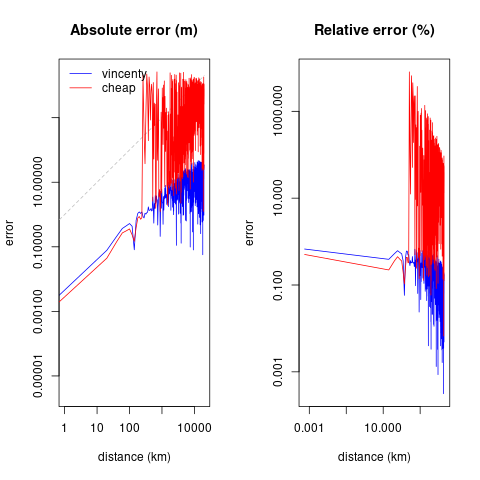
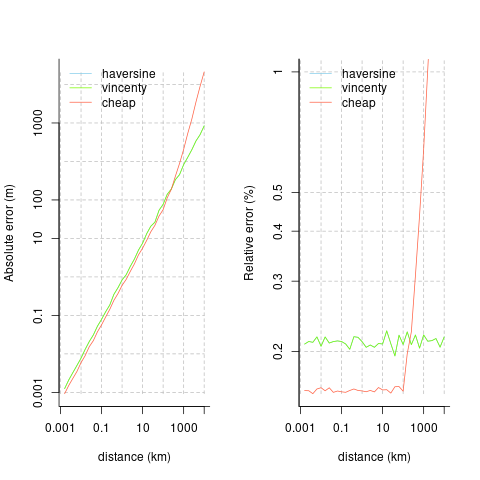
update readme

diff --git a/README.md b/README.md
@@ -12,7 +12,21 @@ public.](http://www.repostatus.org/badges/latest/wip.svg)](http://www.repostatus
 # geodist
 
 An ultra-lightweight, zero-dependency package for very fast calculation
-of geodesic distances.
+of geodesic distances. Main eponymous function, `geodist()`, accepts
+only one or two primary arguments, which must be rectagular objects with
+unambiguously labelled longitude and latitude columns (that is, some
+variant of `lon`/`lat`, or `x`/`y`).
+
+``` r
+n <- 50
+x <- cbind (-10 + 20 * runif (n), -10 + 20 * runif (n))
+y <- cbind (-10 + 20 * runif (2 * n), -10 + 20 * runif (2 * n))
+colnames (x) <- colnames (y) <- c ("x", "y")
+d0 <- geodist (x) # A 50-by-50 matrix
+d1 <- geodist (x, y) # A 50-by-100 matrix
+d2 <- geodist (x, sequential = TRUE) # Vector of length 49
+d2 <- geodist (x, sequential = TRUE, pad = TRUE) # Vector of length 50
+```
 
 ## Installation
 
@@ -22,13 +36,6 @@ You can install geodist from github with:
 # install.packages("devtools")
 devtools::install_github("hypertidy/geodist")
 ```
-
-## Usage
-
-`geodist` contains only one eponymous function which accepts only one or
-two primary arguments, each of which must be some kind of rectangular
-object with unambiguously labelled longitude and latitude columns (that
-is, some variant of `lon`/`lat`, or `x`/`y`).
 
 ``` r
 library(geodist)
@@ -40,7 +47,10 @@ packageVersion("geodist")
 #> [1] '0.0.0.9000'
 ```
 
-Input can be in arbtirary rectangular format.
+## Detailed Usage
+
+Input(s) to the `geodist()` function can be in arbitrary rectangular
+format.
 
 ``` r
 n <- 1e1
@@ -60,45 +70,74 @@ dim (geodist (x))
 #> [1] 10 10
 ```
 
-Distances currently implemented are Haversine, Vincenty (spherical), and
-the very fast [mapbox cheap
+Distances currently implemented are Haversine, Vincenty (spherical and
+elliptical)), the very fast [mapbox cheap
 ruler](https://github.com/mapbox/cheap-ruler-cpp/blob/master/include/mapbox/cheap_ruler.hpp)
 (see their [blog
-post](https://blog.mapbox.com/fast-geodesic-approximations-with-cheap-ruler-106f229ad016)).
-These are determined by the `measure` parameter which takes one of
-`"haversine"`, `"vincenty"`, or `"cheap"`.
+post](https://blog.mapbox.com/fast-geodesic-approximations-with-cheap-ruler-106f229ad016)),
+and the “reference” implementation of [Karney
+(2013)](https://link.springer.com/content/pdf/10.1007/s00190-012-0578-z.pdf),
+as implemented in the package
+[`sf`](https://cran.r-project.org/package=sf). (Note that `geodist` does
+not accept [`sf`](https://cran.r-project.org/package=sf)-format objects;
+the [`sf`](https://cran.r-project.org/package=sf) package itself should
+be used for that.) Note that The [mapbox cheap ruler
+algorithm](https://github.com/mapbox/cheap-ruler-cpp) is intended to
+provide approximate yet very fast distance calculations within small
+(typically intra-urban) areas.
 
-It is also possible to calculate sequential distances along the rows of
-a rentangular object:
+### Benchmarks of geodetic accuracy
+
+The `geodist_benchmark()` function - the only other function provided by
+the `geodist` package - compares the accuracy of the different metrics
+to the nanometre-accuracy standard of [Karney
+(2013)](https://link.springer.com/content/pdf/10.1007/s00190-012-0578-z.pdf).
 
 ``` r
-d <- geodist (x, measure = "vincenty", sequential = TRUE)
-nrow (x); length (d)
-#> [1] 10
-#> [1] 9
-d <- geodist (x, measure = "vincenty", sequential = TRUE, pad = TRUE)
-nrow (x); length (d); head (d)
-#> [1] 10
-#> [1] 10
-#>          [,1]
-#> [1,]       NA
-#> [2,] 10959720
-#> [3,]  4278914
-#> [4,]  8746226
-#> [5,]  5729448
-#> [6,]  5478099
+geodist_benchmark (lat = 30, d = 1000)
+#>            haversine    vincenty vincenty_ellips       cheap
+#> absolute 0.762938028 0.762938028     0.762938028 0.565866290
+#> relative 0.002058837 0.002058837     0.002058837 0.001577529
 ```
 
-The `pad` argument pre-pends an `NA` to return a vector commensurate
-with input dimensions, and so able to be used directly in piped `dplyr`
-operations.
+All distances (`d)` are in metres, so that result indicates that all
+measures are accurate to within 1m over distances out to several km. The
+following plots compare the absolute and relative accuracies of the
+different distance measures implemented here. The mapbox cheap ruler
+algorithm is the most accurate for distances out to around 100km, beyond
+which it becomes extremely inaccurate. Average relative errors of
+Vincenty distances remain generally constant at around 0.2%, while
+relative errors of cheap-ruler distances out to 100km are around 1.6.
 
-### Comparison
+![](fig/README-plot-1.png)
+
+### Performance comparison
+
+The following code demonstrates the relative speed advantages of the
+different distance measures implemented in the `geodist` package.
+
+``` r
+n <- 1e3
+dx <- dy <- 0.01
+x <- cbind (-100 + dx * runif (n), 20 + dy * runif (n))
+y <- cbind (-100 + dx * runif (2 * n), 20 + dy * runif (2 * n))
+colnames (x) <- colnames (y) <- c ("x", "y")
+rbenchmark::benchmark (replications = 10, order = "test",
+                       d1 <- geodist (x, measure = "cheap"),
+                       d2 <- geodist (x, measure = "haversine"),
+                       d3 <- geodist (x, measure = "vincenty"),
+                       d4 <- geodist (x, measure = "geodesic")) [, 1:4]
+#>                                      test replications elapsed relative
+#> 1     d1 <- geodist(x, measure = "cheap")           10   0.058    1.000
+#> 2 d2 <- geodist(x, measure = "haversine")           10   0.185    3.190
+#> 3  d3 <- geodist(x, measure = "vincenty")           10   0.276    4.759
+#> 4  d4 <- geodist(x, measure = "geodesic")           10   3.106   53.552
+```
 
 Geodesic distance calculation is available in the [`sf`
-package](https://cran.r-project.org/package=sf), requiring only
-conversion of sets of numeric lon-lat points to `sf` form with the
-following code:
+package](https://cran.r-project.org/package=sf). Comparing computation
+speeds requires conversion of sets of numeric lon-lat points to `sf`
+form with the following code:
 
 ``` r
 require (magrittr)
@@ -112,14 +151,8 @@ x_to_sf <- function (x)
 }
 ```
 
-Note that the relevant function, `sf::st_distance()` calculates geodesic
-distances using the methods developed by [Karney
-(2013)](https://link.springer.com/content/pdf/10.1007/s00190-012-0578-z.pdf),
-also provided in this package through internally-bundled code (available
-[here](https://geographiclib.sourceforge.io/geod.html)).
-
 ``` r
-n <- 1e3
+n <- 1e2
 x <- cbind (-180 + 360 * runif (n), -90 + 180 * runif (n))
 colnames (x) <- c ("x", "y")
 xsf <- x_to_sf (x)
@@ -130,8 +163,8 @@ rbenchmark::benchmark (replications = 10, order = "test",
                       geo_dist (x)) [, 1:4]
 #> Linking to GEOS 3.6.2, GDAL 2.3.0, proj.4 5.0.1
 #>           test replications elapsed relative
-#> 2  geo_dist(x)           10   5.325    1.000
-#> 1 sf_dist(xsf)           10  15.477    2.906
+#> 2  geo_dist(x)           10   0.066    1.000
+#> 1 sf_dist(xsf)           10   0.210    3.182
 ```
 
 Confirm that the two give almost identical results:
@@ -140,7 +173,7 @@ Confirm that the two give almost identical results:
 ds <- matrix (as.numeric (sf_dist (xsf)), nrow = length (xsf))
 dg <- geodist (x, measure = "geodesic")
 formatC (max (abs (ds - dg)), format = "e")
-#> [1] "1.3039e-08"
+#> [1] "1.1632e+03"
 ```
 
 All results are in metres, so the two differ by only around 10
@@ -158,45 +191,9 @@ rbenchmark::benchmark (replications = 10, order = "test",
                        fgeodist (),
                        fgeosph ()) [, 1:4]
 #>         test replications elapsed relative
-#> 1 fgeodist()           10   0.005      1.0
-#> 2  fgeosph()           10   0.006      1.2
+#> 1 fgeodist()           10   0.022    1.000
+#> 2  fgeosph()           10   0.048    2.182
 ```
-
-The [mapbox cheap ruler
-algorithm](https://github.com/mapbox/cheap-ruler-cpp) provides
-approximate yet very fast distance calculations within small (typically
-intra-urban) areas. Speed advantages are demonstrated in the following
-code:
-
-``` r
-n <- 1e3
-dx <- dy <- 0.01
-x <- cbind (-100 + dx * runif (n), 20 + dy * runif (n))
-y <- cbind (-100 + dx * runif (2 * n), 20 + dy * runif (2 * n))
-colnames (x) <- colnames (y) <- c ("x", "y")
-rbenchmark::benchmark (replications = 10, order = "test",
-                       d1 <- geodist (x, measure = "cheap"),
-                       d2 <- geodist (x, measure = "haversine"),
-                       d3 <- geodist (x, measure = "vincenty"),
-                       d4 <- geodist (x, measure = "geodesic")) [, 1:4]
-#>                                      test replications elapsed relative
-#> 1     d1 <- geodist(x, measure = "cheap")           10   0.113    1.000
-#> 2 d2 <- geodist(x, measure = "haversine")           10   0.173    1.531
-#> 3  d3 <- geodist(x, measure = "vincenty")           10   0.232    2.053
-#> 4  d4 <- geodist(x, measure = "geodesic")           10   3.091   27.354
-```
-
-Finally, what everybody probably most wants to know … Is the extra time
-to calculate highly accurate geodesic distances really worthwhile? The
-answer depends of course on the scale of distances involved, but the
-following graph provides a visual aid to answering this question.
-
-![](fig/README-plot-1.png)
-
-The mapbox cheap ruler algorithm is actually even more accurate than
-Vincenty for distances below a few hundred kilometres, beyond which it
-becomes extremely inaccurate. Average relative errors of Vincenty
-distances remain generally constant at around 0.2%.
 
 ### Test Results
 
@@ -207,17 +204,19 @@ require (testthat)
 
 ``` r
 date()
-#> [1] "Fri Jun 29 10:56:40 2018"
+#> [1] "Sun Jul  1 19:45:57 2018"
 devtools::test("tests/")
 #> Loading geodist
 #> Testing geodist
 #> ✔ | OK F W S | Context
-✖ | 39       | geodist [0.1 s]
+✔ | 17       | misc tests
+✔ | 12       | geodist input formats
+✔ | 24       | geodist measures [0.2 s]
 #> 
 #> ══ Results ════════════════════════════════════════════════════════════════
-#> Duration: 0.2 s
+#> Duration: 0.3 s
 #> 
-#> OK:       39
+#> OK:       53
 #> Failed:   0
 #> Warnings: 0
 #> Skipped:  0
